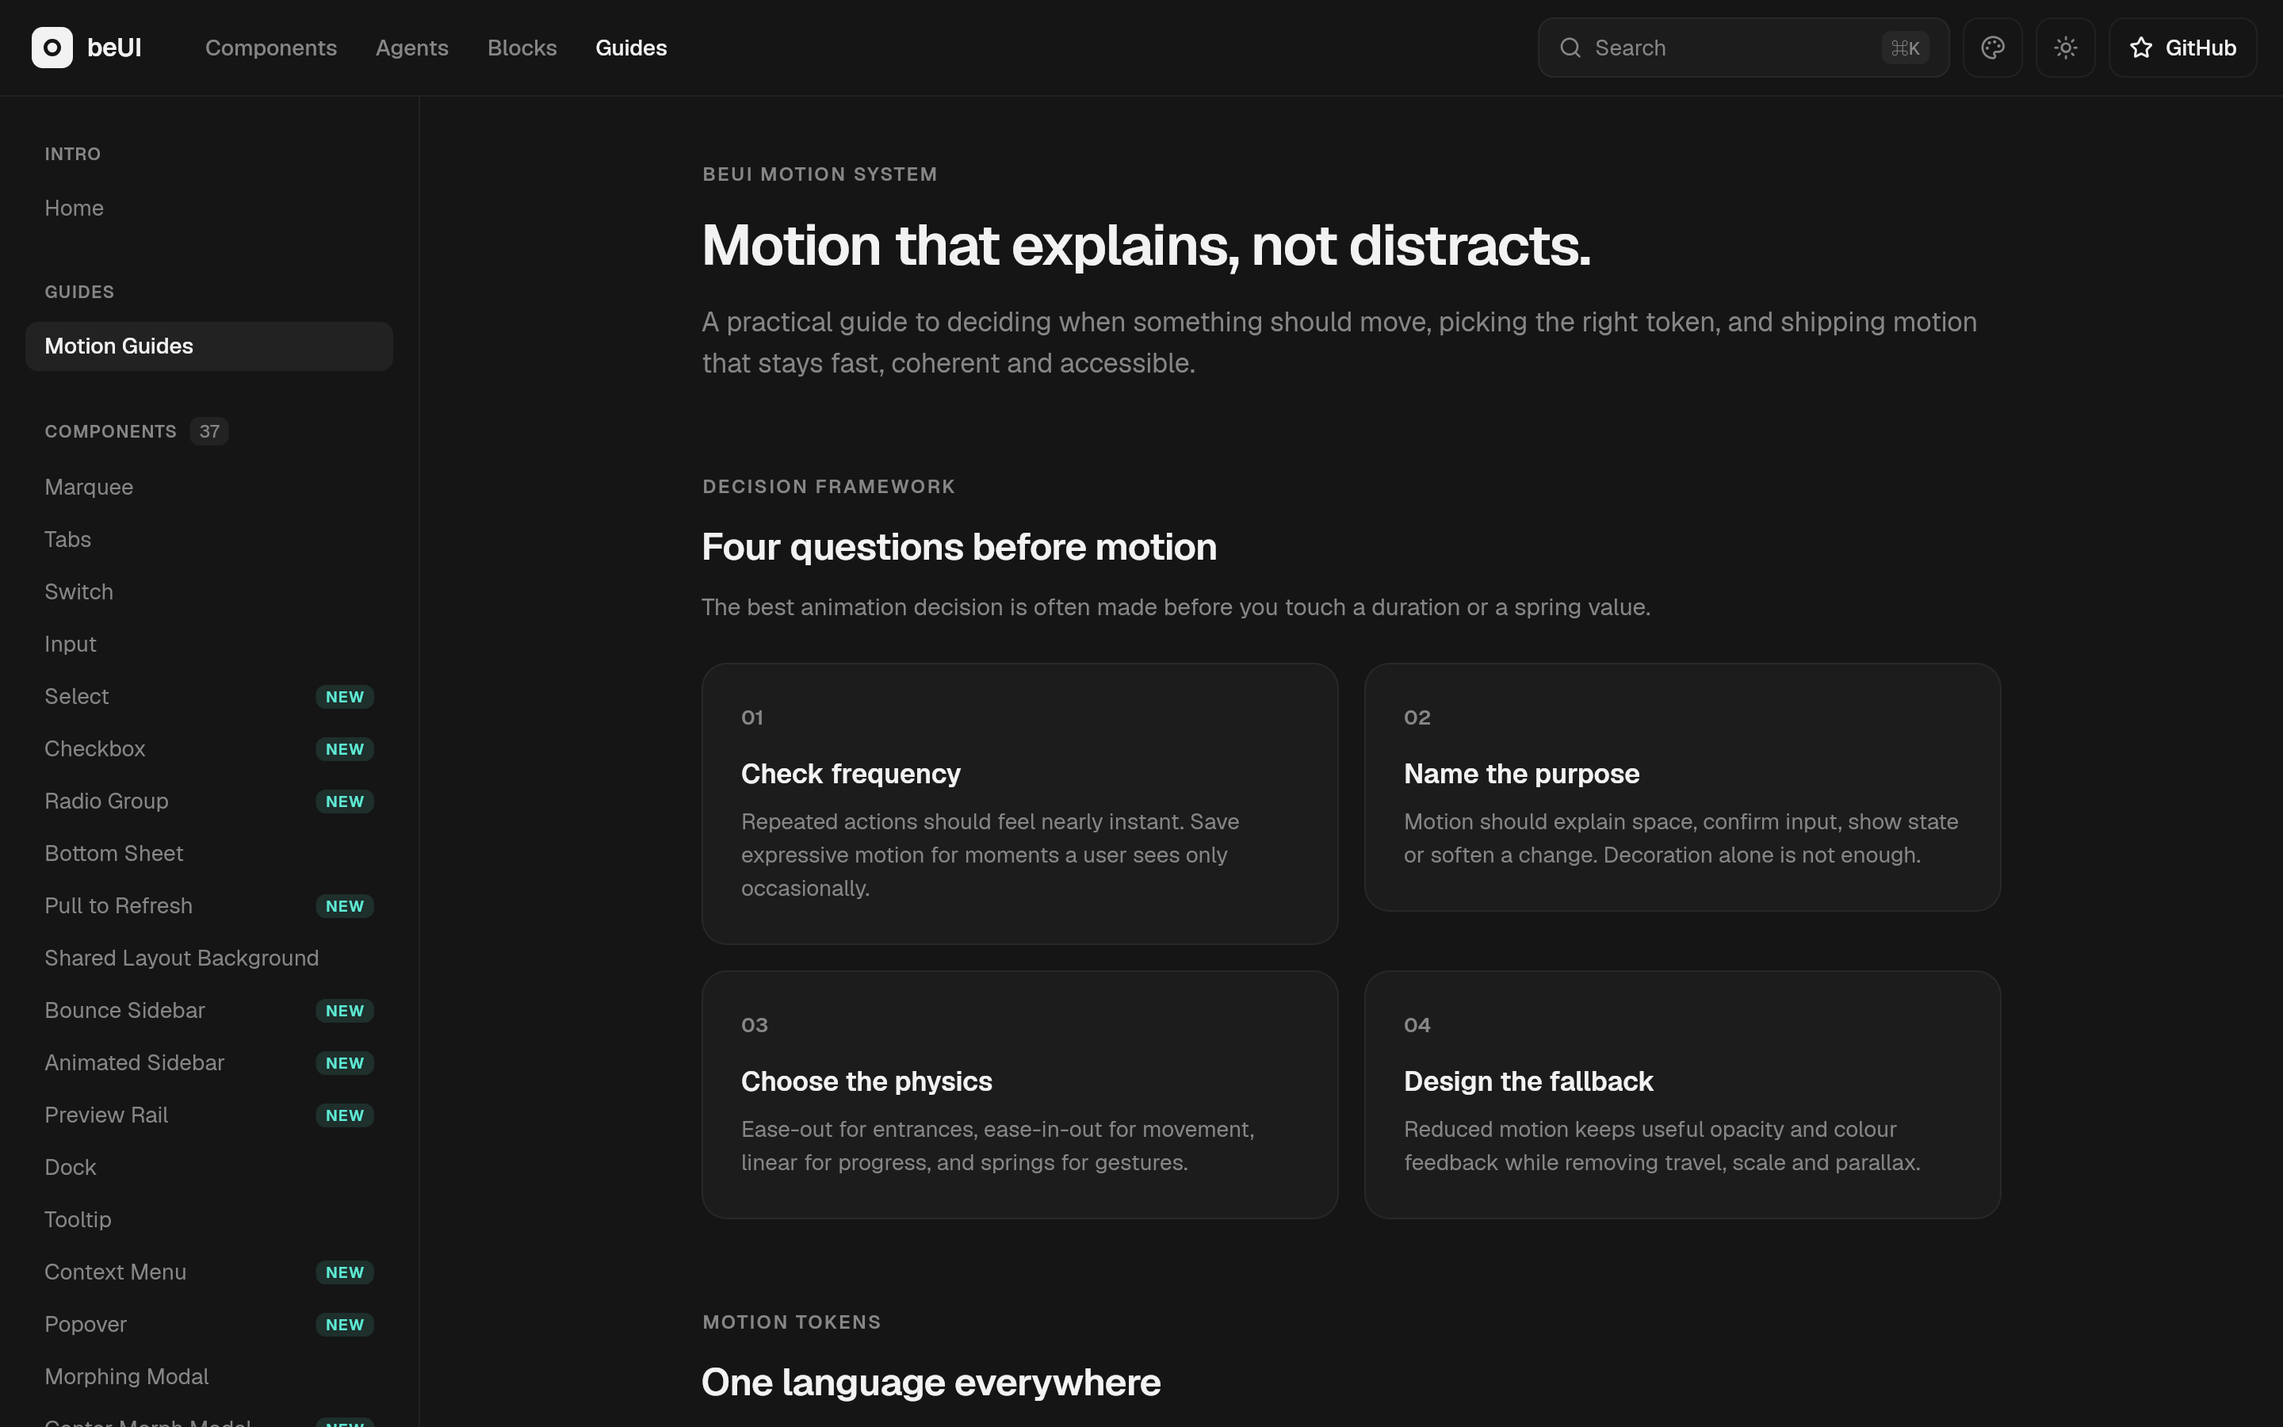
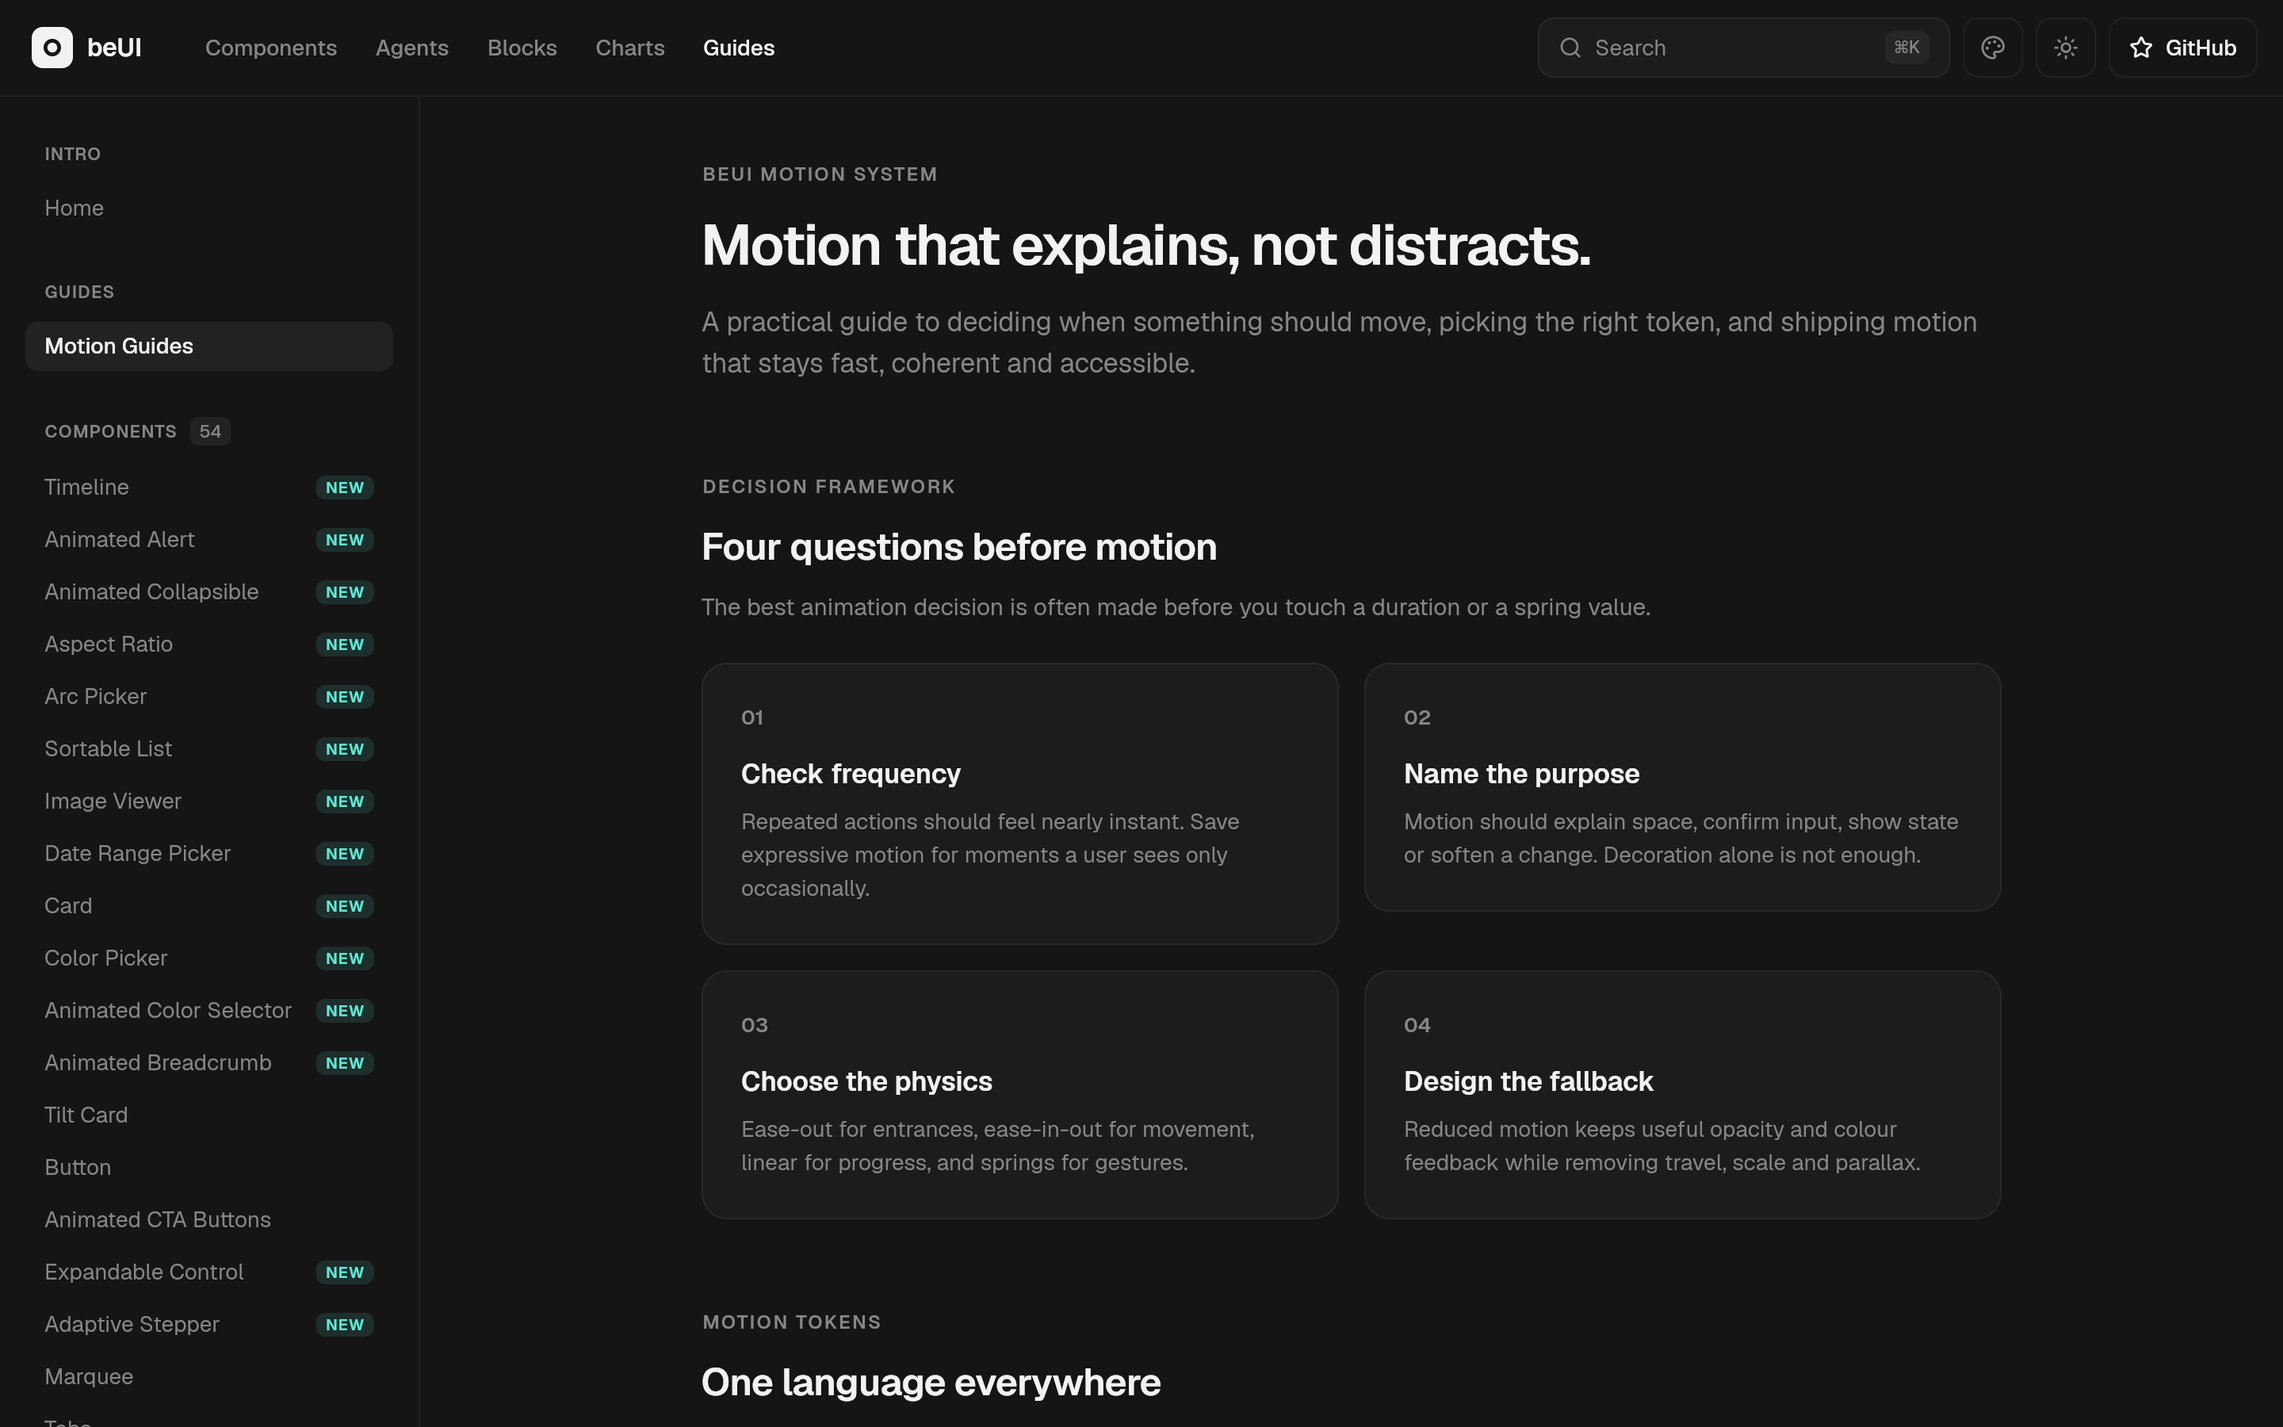
docs: prepare the 3.0.0 readme and changelog
Update the install snippet to ^3.0.0, replace the 1.2.0 highlights
with 3.0.0 ones, mark 3.0.0 catalog additions, and add the Sankey
chart row. Recapture the gallery screenshots and add a charts index.

The changelog now lists the Flutter 3.44.2 minimum, Sankey, table
intrinsic sizing, the keyboard and input fixes, and the known
Combobox issue on web.

diff --git a/README.md b/README.md
@@ -2,9 +2,9 @@
 
 # beUI
 
-**Motion components for Flutter** — a one-to-one port of [beUI v2](https://beui.dev) (`starc007/ui-components`).
+**Motion components for Flutter** — a one-to-one port of [beUI](https://beui.dev) (`starc007/ui-components`).
 
-Spring-physics UI primitives and composed blocks, built on the [`motor`](https://pub.dev/packages/motor) motion engine so the original's *exact* spring feel carries over — not just its look.
+Spring-physics UI primitives, composed blocks, AI-agent surfaces and animated charts, built on the [`motor`](https://pub.dev/packages/motor) motion engine so the original's *exact* spring feel carries over — not just its look.
 
 [![Live gallery](https://img.shields.io/badge/demo-live%20gallery-14b8a6?style=flat-square)](https://codenameakshay.github.io/beui/)
 [![Flutter](https://img.shields.io/badge/Flutter-%3E%3D3.44.2-02569B?style=flat-square&logo=flutter)](https://flutter.dev)
@@ -30,20 +30,26 @@ The port's defining goal is **motion fidelity**. Framer Motion springs are param
 - 🧩 **Native APIs** — controlled/uncontrolled `value` + `onChanged` pairs, framework-native `IconData`/`Widget` icon props, variants as Dart enums.
 - 🪟 **One overlay foundation** — every floating surface (tooltip, drawer, sheet, modal, command palette) builds on a shared `BeuiOverlay`.
 
-> **Status:** 3.0.0. Remaining motion widgets, six catalog blocks, Voice Orb, and the charts family ship in this release. 1.2.0 remediates the chat/agent UX audit — honest failure states, keyboard and screen-reader contracts, AA contrast, composer attachments — and adds `BeuiColors.focusRing` plus localizable `BeuiAgentStrings`.
+> **Status:** 3.0.0. This release adds 17 motion components, six blocks, Voice Orb, and a new Charts family of 14 animated charts. It requires Flutter 3.44.2 or later. See the [changelog](CHANGELOG.md) for compatibility changes and the one known issue.
 
-## What's new in 1.2.0
+## What's new in 3.0.0
 
 <table>
   <tr>
-    <td width="50%"><img src="https://raw.githubusercontent.com/codenameakshay/beui/main/.github/screenshots/gifs/chat-app.gif" alt="Chat App workspace" /><br/><sub><b>Chat App</b> — composed workspace with a responsive sidebar</sub></td>
-    <td width="50%"><img src="https://raw.githubusercontent.com/codenameakshay/beui/main/.github/screenshots/gifs/tool-approval.gif" alt="Tool approval severity tiers" /><br/><sub><b>Tool Approval</b> — details open by default, destructive severity tier</sub></td>
+    <td width="33%"><img src="https://raw.githubusercontent.com/codenameakshay/beui/main/.github/screenshots/gifs/v3/voice-orb.gif" alt="Voice Orb" /><br/><sub><b>Voice Orb</b> — breathing liquid voice visualization</sub></td>
+    <td width="33%"><img src="https://raw.githubusercontent.com/codenameakshay/beui/main/.github/screenshots/gifs/v3/sankey-chart.gif" alt="Sankey Chart" /><br/><sub><b>Sankey Chart</b> — weighted flows with hover inspection</sub></td>
+    <td width="33%"><img src="https://raw.githubusercontent.com/codenameakshay/beui/main/.github/screenshots/gifs/v3/treemap.gif" alt="Treemap" /><br/><sub><b>Treemap</b> — proportional tiles with path tooltips</sub></td>
   </tr>
   <tr>
-    <td width="50%"><img src="https://raw.githubusercontent.com/codenameakshay/beui/main/.github/screenshots/gifs/prompt-input.gif" alt="Prompt input model picker" /><br/><sub><b>Prompt Input</b> — attachment chips and a keyboarded model picker</sub></td>
-    <td width="50%"><img src="https://raw.githubusercontent.com/codenameakshay/beui/main/.github/screenshots/gifs/streaming-response.gif" alt="Streaming response failed state" /><br/><sub><b>Streaming Response</b> — failed and stopped are no longer silent</sub></td>
+    <td width="33%"><img src="https://raw.githubusercontent.com/codenameakshay/beui/main/.github/screenshots/gifs/v3/donut-chart.gif" alt="Donut Chart" /><br/><sub><b>Donut Chart</b> — sweep-in ring with a live center</sub></td>
+    <td width="33%"><img src="https://raw.githubusercontent.com/codenameakshay/beui/main/.github/screenshots/gifs/v3/color-picker.gif" alt="Color Picker" /><br/><sub><b>Color Picker</b> — trigger chip that morphs into a spectrum</sub></td>
+    <td width="33%"><img src="https://raw.githubusercontent.com/codenameakshay/beui/main/.github/screenshots/gifs/v3/card-folder.gif" alt="Card Folder" /><br/><sub><b>Card Folder</b> — card in a stitched pocket with DigitSwap details</sub></td>
   </tr>
 </table>
+
+The gallery now has a **Charts** section next to Components, Blocks and AI Agents:
+
+<img src="https://raw.githubusercontent.com/codenameakshay/beui/main/.github/screenshots/09-charts-dark.png" alt="Charts index" width="880" />
 
 ## Live gallery
 
@@ -70,7 +76,7 @@ The [`example/`](example) app is a beui.dev-style component explorer — sidebar
 
 ```yaml
 dependencies:
-  beui: ^1.2.0
+  beui: ^3.0.0
 ```
 
 Or from Git:
@@ -166,7 +172,7 @@ BeuiShaderBackground(
 
 ## Component catalog
 
-Mirrors the [beui.dev](https://beui.dev) sidebar order. ✨ marks entries added in beUI v2.
+Mirrors the [beui.dev](https://beui.dev) sidebar order. ✨ marks entries new in 3.0.0.
 
 ### Components — motion primitives
 
@@ -232,12 +238,12 @@ Mirrors the [beui.dev](https://beui.dev) sidebar order. ✨ marks entries added 
 
 | Block | Widget | What it does |
 | --- | --- | --- |
-| Infinite Masonry ✨ | `BeuiInfiniteMasonry` | Masonry grid that lazily appends tiles as you scroll |
-| Notification Stack ✨ | `BeuiNotificationStack` | Collapsed notification stack that expands with layout-aware motion |
+| Infinite Masonry | `BeuiInfiniteMasonry` | Masonry grid that lazily appends tiles as you scroll |
+| Notification Stack | `BeuiNotificationStack` | Collapsed notification stack that expands with layout-aware motion |
 | Project Folder ✨ | `BeuiProjectFolder` | Folder that fans file previews on hover or focus, then morphs into an overlay grid |
 | Card Folder ✨ | `BeuiCardFolder` | Landscape card tucked in a stitched purse pocket, with DigitSwap details |
-| Fixtures ✨ | `BeuiKnockoutBracket`, `BeuiKnockoutWheel` | Tournament fixtures: a paging knockout bracket and a wheel around the champion |
-| Availability Scheduler ✨ | `BeuiAvailabilityScheduler` | Weekly availability grid with per-day time ranges |
+| Fixtures | `BeuiKnockoutBracket`, `BeuiKnockoutWheel` | Tournament fixtures: a paging knockout bracket and a wheel around the champion |
+| Availability Scheduler | `BeuiAvailabilityScheduler` | Weekly availability grid with per-day time ranges |
 | Multi-chain Swap | `BeuiMultiChainSwap` | Token swap card with chain switching and an animated quote |
 | Dynamic Island | `BeuiDynamicIsland` | iOS-style island that morphs between compact and expanded views |
 | Command Palette | `BeuiCommandPalette` | ⌘K palette with fuzzy search and spring-animated results |
@@ -248,12 +254,12 @@ Mirrors the [beui.dev](https://beui.dev) sidebar order. ✨ marks entries added 
 | Morphing Tabs ✨ | `BeuiMorphingTabs` | Reorderable tabs whose selected item grows into a cream content surface |
 | Swipeable List | `BeuiSwipeableList` | List rows with spring-backed swipe-to-reveal actions |
 | File Upload | `BeuiAttachmentUpload`, `BeuiFileUpload` | Attachment workspace plus a progress queue with retry and removal |
-| Prediction Market | `BeuiPredictionMarketCard`, `BeuiPredictionMarket` | Listing cards with percent-to-Yes/No odds pills and bookmarks, plus a trade ticket |
-| Wallet Card ✨ | `BeuiWalletCard` | Wallet card with an account switcher and morphing search |
+| Prediction Market ✨ | `BeuiPredictionMarketCard`, `BeuiPredictionMarket` | Listing cards with percent-to-Yes/No odds pills and bookmarks, plus a trade ticket |
+| Wallet Card | `BeuiWalletCard` | Wallet card with an account switcher and morphing search |
 | OTP Input | `BeuiOtpInput` | One-time-code field with per-cell focus and a success check |
 | Sign Up Form ✨ | `BeuiSignUpForm` | Registration form with punish-late errors, strength meter, and stateful submit |
-| Bloom Menu ✨ | `BeuiBloomMenu` | Radial action menu that blooms open from a floating trigger |
-| Feedback Widget ✨ | `BeuiFeedbackWidget` | Feedback popover that keeps drafts, validates inline and morphs to a success state |
+| Bloom Menu | `BeuiBloomMenu` | Radial action menu that blooms open from a floating trigger |
+| Feedback Widget | `BeuiFeedbackWidget` | Feedback popover that keeps drafts, validates inline and morphs to a success state |
 | 404 / Not Found | `BeuiNotFoundGlitch`, `…Magnetic`, `…Spotlight`, `…Stacked`, `…Terminal` | Five expressive 404 treatments |
 
 ### AI Agents — conversational and agent-reasoning interfaces
@@ -277,13 +283,16 @@ Mirrors the [beui.dev](https://beui.dev) sidebar order. ✨ marks entries added 
 | Approval Card | `BeuiApprovalCard` | Human-in-the-loop surface for approvals, questions, and compact-to-expanded proposals |
 | AI Sidebar | `BeuiAiSidebar` | Workspace sidebar for folders, projects, files and bookmarks with inline rename |
 | Chat App | `BeuiChatApp` | A complete conversation workspace composing the widgets above, with a responsive sidebar |
-| Voice Orb | `BeuiVoiceOrb` | Breathing liquid voice visualization with custom pigments, a voice-reactive silhouette, and a `size` override |
+| Voice Orb ✨ | `BeuiVoiceOrb` | Breathing liquid voice visualization with custom pigments, a voice-reactive silhouette, and a `size` override |
 | Agent Theme | — | Gallery route that installs a custom `BeuiAgentTheme` on the real widgets |
 
 ### Charts — animated data visualizations
 
+The whole family is new in 3.0.0.
+
 | Chart | Widget(s) | What it does |
 | --- | --- | --- |
+| Sankey Chart | `BeuiSankeyChart`, `BeuiSankeyData`, `BeuiSankeyNode`, `BeuiSankeyLink` | Weighted flows between stages that draw in and morph with the data |
 | Treemap | `BeuiTreemap`, `BeuiTreemapPlot`, `BeuiTreemapTooltip`, `BeuiTreemapLegend` | Proportional tiles that morph with the data, with value and share tooltips |
 | Candlestick Chart | `BeuiCandlestickChart`, `BeuiCandlestickPlot`, `BeuiCandlestickLegend` | OHLC candles with a live last price and volume |
 | Donut Chart | `BeuiDonutChart`, `BeuiDonutPlot`, `BeuiDonutCenter`, `BeuiDonutLegend` | Round-capped ring with a live center and sweep-in motion |

diff --git a/CHANGELOG.md b/CHANGELOG.md
@@ -8,6 +8,7 @@ motion components, blocks, agents, and charts.
 * Prediction Market odds callbacks now report `side: "yes"` for every row, including rows displaying No, matching the source preview. The callback signature is unchanged.
 * Feedback rejects empty or whitespace-only submissions. Closing discards the draft and selected sentiment; a rejected submission keeps the draft for retry.
 * `BeuiTextTheme` defaults now name Geist and Geist Mono. Consumers must provide those fonts; the package still bundles no font assets.
+* The minimum Flutter version is now 3.44.2 (was 3.44.0).
 
 ### Components
 
@@ -18,6 +19,11 @@ motion components, blocks, agents, and charts.
 * Input gains `reserveErrorLine` so validation does not shift nearby content.
 * Table gallery adds editable and async bands (`onCellEdit`, `onEndReached`).
 * Reorder the motion gallery to match beui.dev (New first, then All).
+* Table gains opt-in intrinsic sizing (`BeuiTableSizing`, `BeuiTableIntrinsicSample`). It also keeps collapsed grid geometry, menus, native keyboard input and the initial drag displacement.
+* Tooltip supports controlled external anchors and keeps focus and dismissal correct when assistive technology activates it.
+* Availability Scheduler's copy menu works from the keyboard: arrow keys move, Space toggles a day, and a disabled Apply never activates the schedule behind it.
+* Range sliders match the source's pointer and keyboard input, and disabled wave and bubble sliders ignore drags.
+* Number Ticker measures source digit slots and text baselines. Checkbox wraps long labels within the available width.
 * Fix stale component lifecycle and gesture-release state, reduced-motion geometry, Alert exit continuity, Card gallery control names, Number gallery overflow, and Image Viewer demo opening.
 
 ### Blocks
@@ -36,12 +42,14 @@ motion components, blocks, agents, and charts.
   highlights, custom pigments, a voice-reactive silhouette, a caller-owned
   analyser, offscreen pause, a reduced-motion freeze, and a `size` override
   (default `w-64` / 256; the live preview uses `sm:w-72` / 288).
+* Approval Card and its Input fields match the source's badge, counter and placeholder styles. File Diff keeps single-line diffs on narrow views.
 * Gallery order now matches the source agents page clusters, then extras
   (AI Sidebar, Chat App, Voice Orb, Agent Theme).
 
 ### Charts
 
 * Chart tooltip numeric labels use `BeuiChartTicker` for digit animation.
+* `BeuiSankeyChart` — weighted flows between stages that draw in and morph with the data, with hover and keyboard inspection.
 * `BeuiTreemap` — order-preserving binary tiles that spring to new sizes, with path tooltips and a group legend.
 * `BeuiCandlestickChart` — OHLC candles with a live last price, volume, and keyboard inspection.
 * `BeuiDonutChart` — round-capped ring with a live center, legend, and sweep-in motion.
@@ -55,6 +63,10 @@ motion components, blocks, agents, and charts.
 * `BeuiHeatCalendar` — GitHub-style contribution heatmap with range selection; filtered cells fade; 16-week legends place the date range opposite less/more.
 * `BeuiReturnsCalendar` — monthly returns grid with gain/loss tint and compounded totals; month labels use JS `Math.round`.
 * `BeuiPriceTargetFan` — high/mean/low target fan over a history path.
+
+### Known issues
+
+* Combobox can lose the first characters typed into its search field on Flutter web. The cause is in the Flutter engine: it attaches text-editing listeners after the first input arrives. No safe fix is available yet.
 
 ## 2.0.0
 

diff --git a/example/README.md b/example/README.md
@@ -9,7 +9,7 @@ app doubles as the living showcase and the render target for golden tests.
 
 Deep links (also used to recapture README screenshots):
 
-* `?section=components|blocks|agents`
+* `?section=components|blocks|agents|charts`
 * `?slug=chat-app` (any catalog slug)
 * `?page=guides`
 * `?theme=light|dark` and `?color=violet` (or any `BeuiColorTheme` slug)
